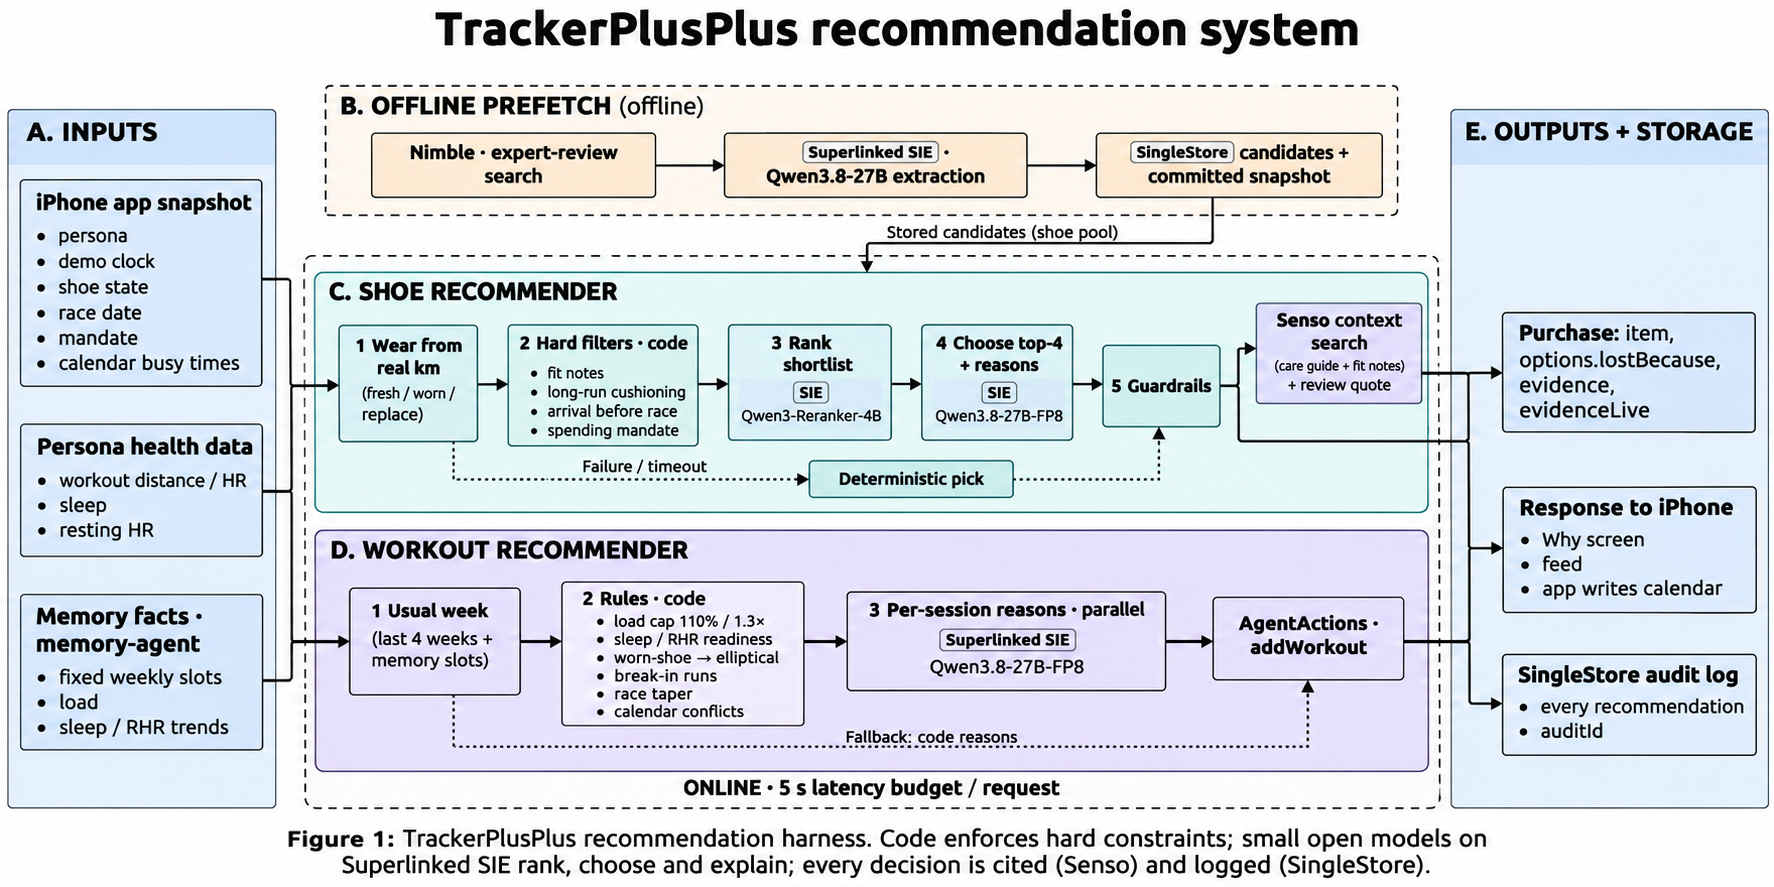
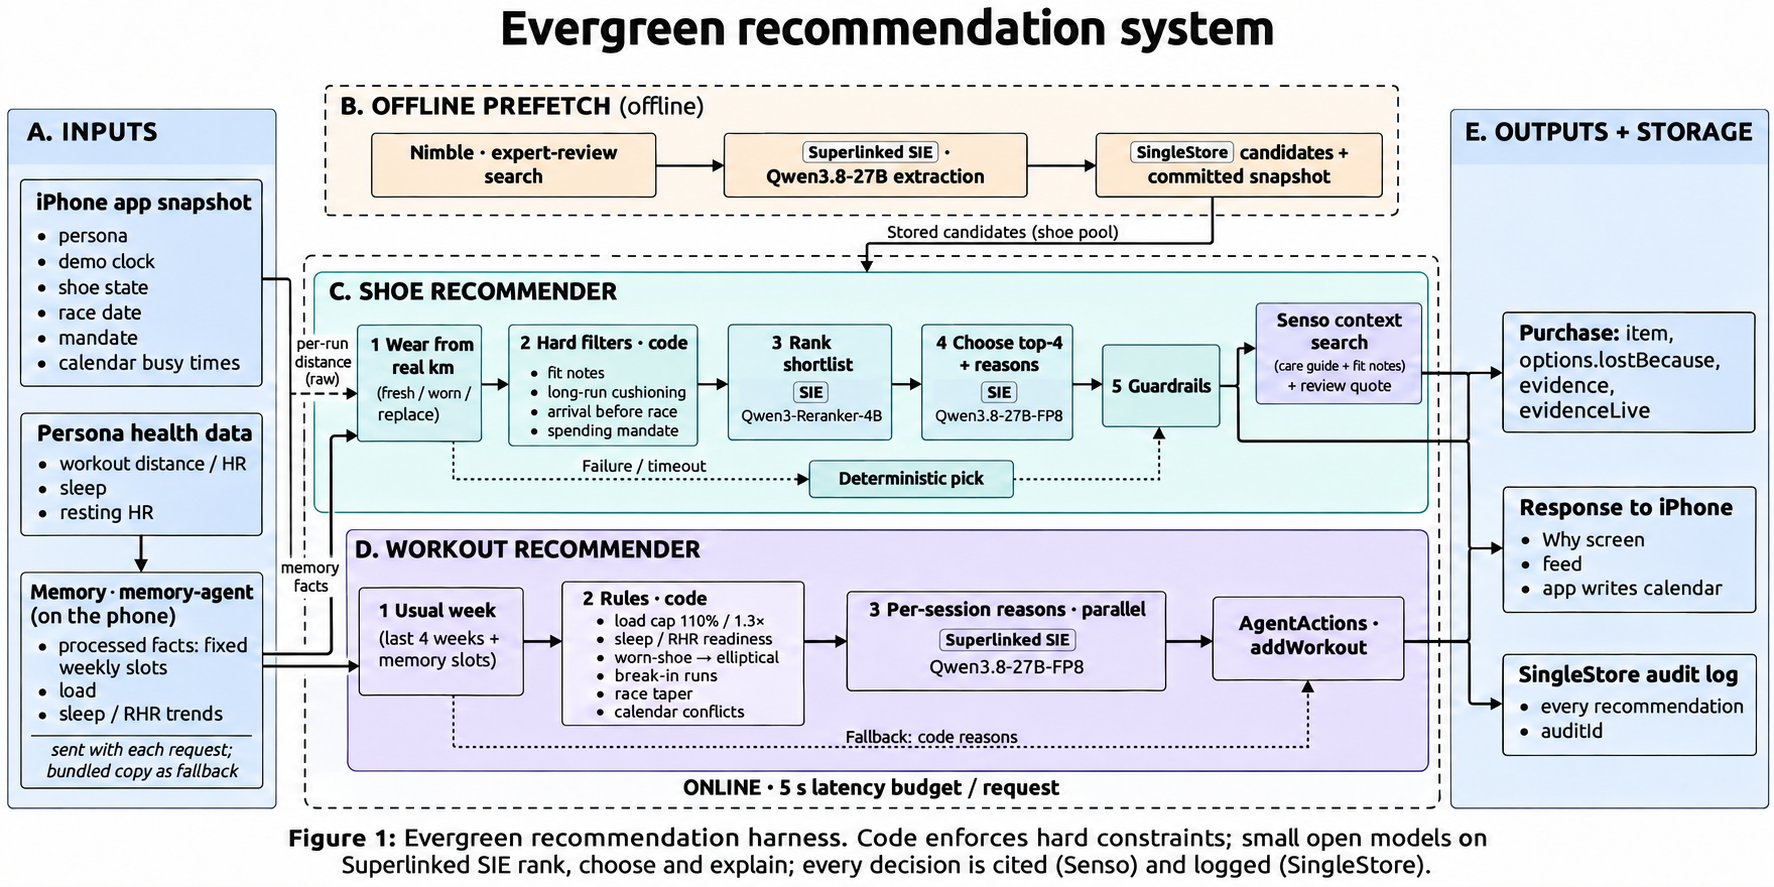
Plan from the phone's memory; redraw the figure as Evergreen
Both routes accept the phone's memory (memoryPlannerText and fact lines) and use
it in place of the bundled copy, reporting memorySource (phone or bundled).
Fixed slots set session times; load, sleep and resting-HR facts shape the
reasons and the shoe pick. Shoe wear still reads per-run distances.

The figure (GPT Astra) is renamed Evergreen and now shows health data flowing
into memory and on to both recommenders, with raw distance only for wear.
INTEGRATION.md shows the app how to send its memory.

diff --git a/harness/harness/recommend/workouts.py b/harness/harness/recommend/workouts.py
@@ -20,7 +20,7 @@ from pydantic import BaseModel, Field
 
 from harness import data, store
 from harness.clients import sie
-from harness.models import ShoeState
+from harness.models import PhoneMemory, ShoeState
 from harness.recommend.condition import condition
 from harness.web import workout_ideas
 
@@ -52,6 +52,7 @@ class WorkoutsRequest(BaseModel):
     newPairArrives: Optional[date] = None       # set once a shoe order is placed
     raceDate: Optional[date] = None
     busy: list[Busy] = Field(default_factory=list)
+    memory: Optional[PhoneMemory] = None          # the phone's memory; falls back to the bundled copy
 
 
 def effort(w: dict) -> float:
@@ -120,7 +121,7 @@ def build(req: WorkoutsRequest) -> dict:
     # Whole-week shift so weekdays match the history (and Tony's memory slots, computed on the same data).
     ws = data.workouts(req.persona, now, keep_weekdays=True)
     sig = signals(ws, data.daily(req.persona, now, keep_weekdays=True), now)
-    mem = data.memory(req.persona)
+    mem, mem_source = data.resolve_memory(req.memory, req.persona)
     slots = memory_slots(mem)
     week = usual_week(ws, now)
     cond = condition(ws, req.shoes, now) if req.shoes else None
@@ -194,7 +195,7 @@ def build(req: WorkoutsRequest) -> dict:
         if end.hour >= 21 and not s.get("race"):
             s["tags"].append("no free slot that day")
         s["start"], s["end"] = start, end
-    return {"sessions": sessions, "signals": sig, "condition": cond, "memory": mem}
+    return {"sessions": sessions, "signals": sig, "condition": cond, "memory": mem, "memorySource": mem_source}
 
 
 def _template(s: dict) -> str:
@@ -353,7 +354,7 @@ def recommend(req: WorkoutsRequest) -> dict:
     mem = plan["memory"] or {}
     used = [f["text"] for f in mem.get("facts", []) if f.get("kind") in ("regularity", "load", "body")]
     result = {"summary": summary, "signals": sig, "actions": actions, "suggestions": suggestions(req, plan, ids),
-              "memoryUsed": used,
+              "memoryUsed": used, "memorySource": plan["memorySource"],
               "memoryAsOf": mem.get("asOf"), "live": source == "sie", "source": source,
               "condition": plan["condition"].model_dump() if plan["condition"] else None}
     result["auditId"] = store.log_recommendation(req.persona, source, "week plan", int((time.monotonic() - t0) * 1000),

diff --git a/harness/harness/recommend/shoes.py b/harness/harness/recommend/shoes.py
@@ -153,11 +153,15 @@ def recommend(req: ShoesRequest) -> ShoesResponse:
         return ShoesResponse(condition=cond, profile=prof, purchase=None, live=False, source="fresh")
 
     fit = data.fit_notes(req.persona)
+    mem, mem_source = data.resolve_memory(req.memory, req.persona)
     pool, cand_source = candidates(req.persona)
     eligible, rejected = _filter(pool, fit, day, race, prof.longestRunKm)
     if not eligible:
         return ShoesResponse(condition=cond, profile=prof, purchase=None, live=False, source="rules")
     need = _need(prof, cond, fit, days_to_race)
+    habits = [f["text"] for f in (mem or {}).get("facts", []) if f.get("kind") in data.MEMORY_KINDS][:4]
+    if habits:
+        need += " Memory: " + " ".join(habits)
 
     # Guide and fit-note evidence runs alongside the models; the chosen listing is added after.
     ev_future = _pool.submit(senso.search_many, "shoes", [
@@ -211,9 +215,9 @@ def recommend(req: ShoesRequest) -> ShoesResponse:
     )
     audit_id = store.log_recommendation(req.persona, source, chosen["name"], int((time.monotonic() - t0) * 1000), {
         "request": req.model_dump(mode="json"), "condition": cond.model_dump(), "profile": prof.model_dump(),
-        "candidatesFrom": cand_source, "shortlist": [s["id"] for s in eligible],
+        "candidatesFrom": cand_source, "memorySource": mem_source, "shortlist": [s["id"] for s in eligible],
         "rejected": {s["id"]: s["lostBecause"] for s in rejected}, "purchase": purchase.model_dump(mode="json"),
         "sources": [{"name": c["name"], "url": c.get("url")} for c in [chosen] if c.get("url")],
     })
     return ShoesResponse(condition=cond, profile=prof, purchase=purchase, live=source == "sie", source=source,
-                         candidatesFrom=cand_source, auditId=audit_id)
+                         candidatesFrom=cand_source, auditId=audit_id, memorySource=mem_source)

diff --git a/harness/harness/models.py b/harness/harness/models.py
@@ -49,6 +49,18 @@ class Mandate(BaseModel):
     maxAutoCents: int
 
 
+class MemoryFact(BaseModel):
+    text: str
+    kind: Optional[str] = None
+
+
+class PhoneMemory(BaseModel):
+    """The phone's memory (memory-agent in JavaScriptCore): memoryPlannerText's text and the fact lines.
+    When sent, it replaces the harness's bundled copy."""
+    plannerText: Optional[str] = None
+    facts: list[MemoryFact] = Field(default_factory=list)
+
+
 class ShoeState(BaseModel):
     boughtOn: date
     startMiles: float = 0
@@ -74,6 +86,7 @@ class ShoesRequest(BaseModel):
     shoes: ShoeState
     raceDate: date
     mandate: list[Mandate] = Field(default_factory=list)
+    memory: Optional[PhoneMemory] = None
 
 
 class Condition(BaseModel):
@@ -100,5 +113,6 @@ class ShoesResponse(BaseModel):
     purchase: Optional[Purchase]
     live: bool          # true = SIE ranked and decided; false = deterministic fallback
     source: str         # "sie" | "rules" | "fresh"
-    candidatesFrom: Optional[str] = None   # "web-singlestore" | "web-snapshot" | "catalog"
+    candidatesFrom: Optional[str] = None
+    memorySource: Optional[str] = None     # "phone" | "bundled" | None   # "web-singlestore" | "web-snapshot" | "catalog"
     auditId: Optional[str] = None          # SingleStore recommendations row, when logging is on

diff --git a/harness/tests/test_workouts.py b/harness/tests/test_workouts.py
@@ -103,3 +103,15 @@ def test_taper_sessions_cite_a_web_source(offline):
     r = TestClient(app).post("/workouts/recommend", json=req().model_dump(mode="json")).json()
     taper = [a for a in r["actions"] if any("taper" in t for t in a["rules"])]
     assert taper and all(a["evidence"] and a["evidence"][0]["url"] for a in taper)
+
+
+def test_phone_memory_replaces_bundled_copy(offline):
+    phone = {"plannerText": "Runs on Wednesday mornings.", "facts": [
+        {"text": "Fixed slot among recognised activities: running on Sun between 10:00 and 11:00, in 3 of the last 4 weeks."}]}
+    c = TestClient(app)
+    r = c.post("/workouts/recommend", json={**req().model_dump(mode="json"), "memory": phone}).json()
+    assert r["memorySource"] == "phone"
+    sun = next(a for a in r["actions"] if a["id"].startswith("wk-2026-11-22"))
+    assert sun["after"]["start"].startswith("2026-11-22T10:00")            # the phone's slot, not the bundled 08:00
+    assert any("Sun between 10:00" in t for t in r["memoryUsed"])
+    assert c.post("/workouts/recommend", json=req().model_dump(mode="json")).json()["memorySource"] == "bundled"

diff --git a/harness/harness/data/__init__.py b/harness/harness/data/__init__.py
@@ -66,3 +66,21 @@ def memory(persona: str) -> dict | None:
         return _load(f"memory/{persona}.json")
     except FileNotFoundError:
         return None
+
+
+MEMORY_KINDS = ("regularity", "load", "body")
+_KIND_HINTS = {"regularity": ("Fixed slot", "Days since", "Longest stretch"), "load": ("load",),
+               "body": ("sleep", "resting heart rate")}
+
+
+def resolve_memory(phone, persona: str) -> tuple[dict | None, str | None]:
+    """The phone's memory when the request carries it, else the bundled copy. Facts without a kind
+    get one from their wording so slot parsing and filtering work the same for both."""
+    if phone and (phone.facts or phone.plannerText):
+        facts = []
+        for f in phone.facts:
+            kind = f.kind or next((k for k, hints in _KIND_HINTS.items() if any(h.lower() in f.text.lower() for h in hints)), None)
+            facts.append({"text": f.text, "kind": kind})
+        return {"facts": facts, "plannerText": phone.plannerText or "", "asOf": None}, "phone"
+    mem = memory(persona)
+    return (mem, "bundled") if mem else (None, None)

diff --git a/harness/tests/test_shoes.py b/harness/tests/test_shoes.py
@@ -140,3 +140,10 @@ def test_web_pick_carries_image_url(no_sie, monkeypatch):
     monkeypatch.setattr(research, "load_snapshot", lambda persona: snap)
     p = TestClient(app).post("/shoes/recommend", json=body()).json()["purchase"]
     assert p["imageUrl"] and p["imageUrl"] == p["options"][0]["imageUrl"] and p["imageUrl"].startswith("https://")
+
+
+def test_shoes_report_memory_source(no_sie):
+    c = TestClient(app)
+    assert c.post("/shoes/recommend", json=body()).json()["memorySource"] == "bundled"
+    r = c.post("/shoes/recommend", json=body(memory={"facts": [{"text": "Average sleep over the last 7 days: 8 h"}]})).json()
+    assert r["memorySource"] == "phone"

diff --git a/harness/INTEGRATION.md b/harness/INTEGRATION.md
@@ -143,3 +143,20 @@ In the Simulator: Demo → "Jordan: shoes near 400 mi". The card should show the
 - `actions[].evidence`: web citations `{source, passage, url}` for the session's rule; show them on the Why screen.
 - `suggestions[]`: up to 2 optional extras from expert guidance, e.g. `{title: "Relaxed strides", minutes: 6, when: "after your Thu run", attachTo: "wk-…", why, source: {title, host, url}, quote, optional: true}`. Show them as "Suggested" (don't book automatically). Fine to ignore for the demo.
 - About 1.5 s; `source` is `sie` (model-written reasons) or `rules` (template reasons).
+
+
+## 7. Send the phone's memory (health data → memory → recommendations)
+
+`MemoryEngine` already rolls the person's health snapshot into memory after every tick. Send that memory with both requests so the harness plans from the phone's own memory instead of its bundled copy:
+
+```json
+"memory": {
+  "plannerText": "<memoryPlannerText's text>",
+  "facts": [{"text": "Fixed slot among recognised activities: running on Tue between 18:00 and 19:00, in 3 of the last 4 weeks.", "kind": "regularity"}]
+}
+```
+
+- `plannerText`: call the bundle's `memoryPlannerText` (memory-agent/docs/PHONE.md) after the roll.
+- `facts`: the fact lines from the `profile` and `rolling` files (`text`, and `kind` if you have it; the harness infers it otherwise).
+- Both routes return `memorySource: "phone"` when they used it, `"bundled"` when they fell back. Fixed slots set the week plan's session times; load, sleep and resting-HR facts go into the reasons and the shoe pick's runner description.
+- Shoe wear still reads per-run distances from the persona data, because memory holds counts and minutes, not mileage.

diff --git a/harness/README.md b/harness/README.md
@@ -56,7 +56,7 @@ The whole route has a 5 s budget. Measured on Jordan with web candidates: about 
 
 `POST /workouts/recommend` plans the next 7 days. Code decides the sessions; the model only explains them.
 
-- **Usual week:** per weekday, the activity, minutes and start hour Jordan actually did in the last 4 weeks. **Tony's memory agent** supplies the fixed slots (e.g. "running on Tue between 18:00 and 19:00") and they set the start time. The history is shifted by whole weeks here so weekdays match the memory.
+- **Usual week:** per weekday, the activity, minutes and start hour Jordan actually did in the last 4 weeks. **Memory** supplies the fixed slots: the phone's memory when the request carries `memory` (`memorySource: "phone"`), else the bundled copy built by Tony's memory agent (`"bundled"`). It (e.g. "running on Tue between 18:00 and 19:00") and they set the start time. The history is shifted by whole weeks here so weekdays match the memory.
 - **Health data:** training load (effort × minutes; effort estimated from average heart rate when missing) for the last 7 days vs. the 4-week weekly average. The week must stay ≤ min(110% of the larger of the two, 1.3 × the average). Sleep down 30+ min/night or resting HR up 3+ bpm → the first hard session becomes easy.
 - **Shoes:** worn out (≥85%) and no new pair yet → runs longer than 45 min move to the bike or elliptical. After `newPairArrives`, the first two runs are 30-minute break-in runs.
 - **Race:** taper in the last 10 days (long run 60%, other runs 80%), rest the day before, and race day as a note.

diff --git a/README.md b/README.md
@@ -6,7 +6,7 @@
 
 Tracker++ is an iOS agent that protects your workout plan instead of just writing one. It notices a missed session and books a shorter comeback, moves a workout when a meeting lands on it, buys what your training needs under a spending rule you set once, and shows its reasoning for every action. Built for the [Personal Agents Hackathon](https://luma.com/personalagenthack) (San Francisco, November 2026).
 
-![TrackerPlusPlus recommendation system](docs/figures/recommendation-system.png)
+![Evergreen recommendation system](docs/figures/recommendation-system.png)
 
 ## Contents
 
@@ -89,7 +89,7 @@ Requires [uv](https://docs.astral.sh/uv/).
 cd harness
 uv sync
 cp .env.example .env          # add your keys (see below)
-uv run pytest -q              # 34 tests
+uv run pytest -q              # 36 tests
 PYTHONPATH=. uv run uvicorn api.index:app --port 8000
 ```
 
